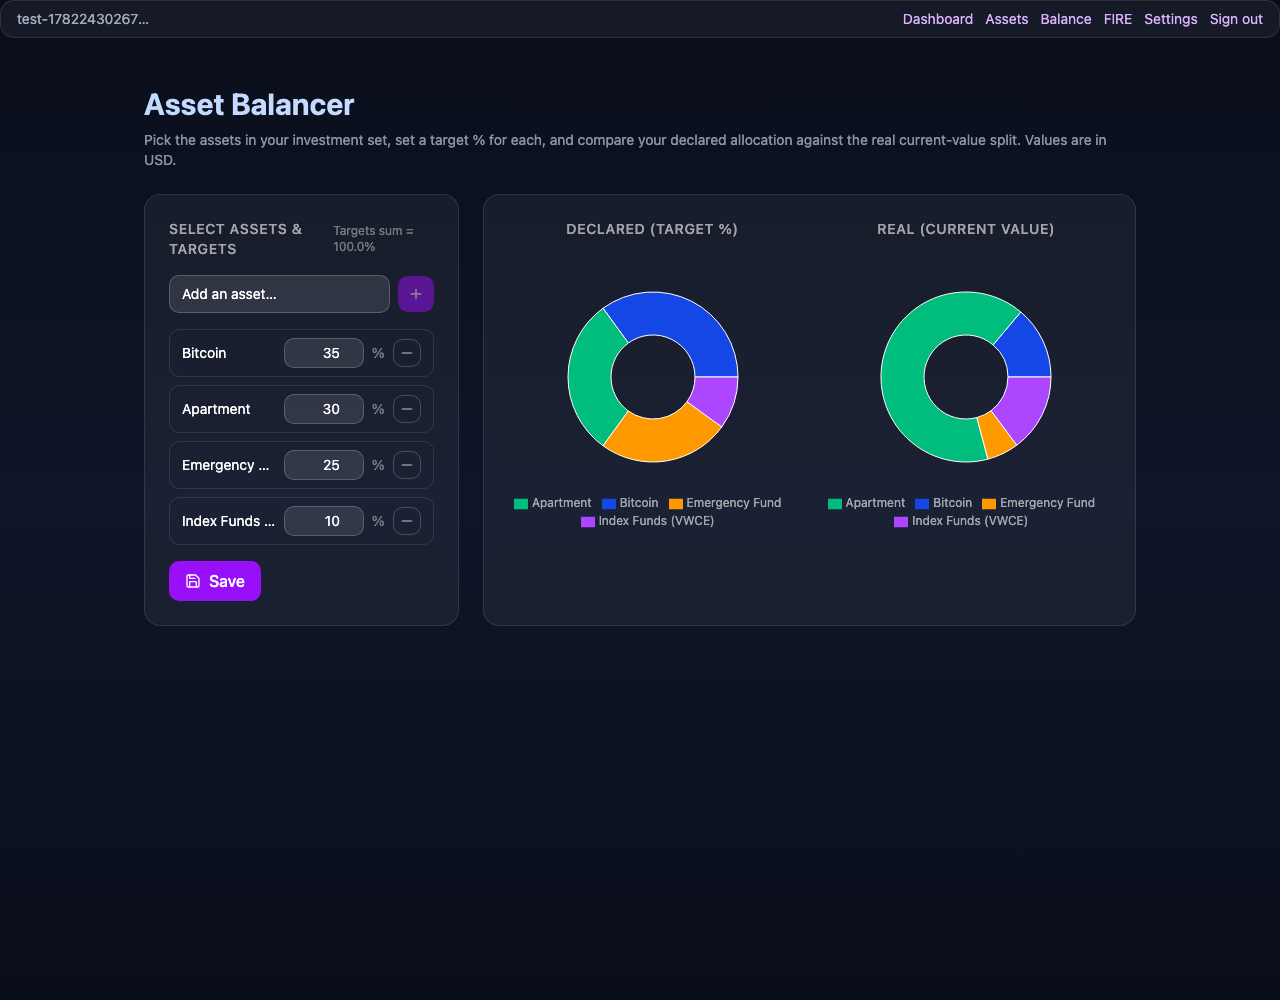
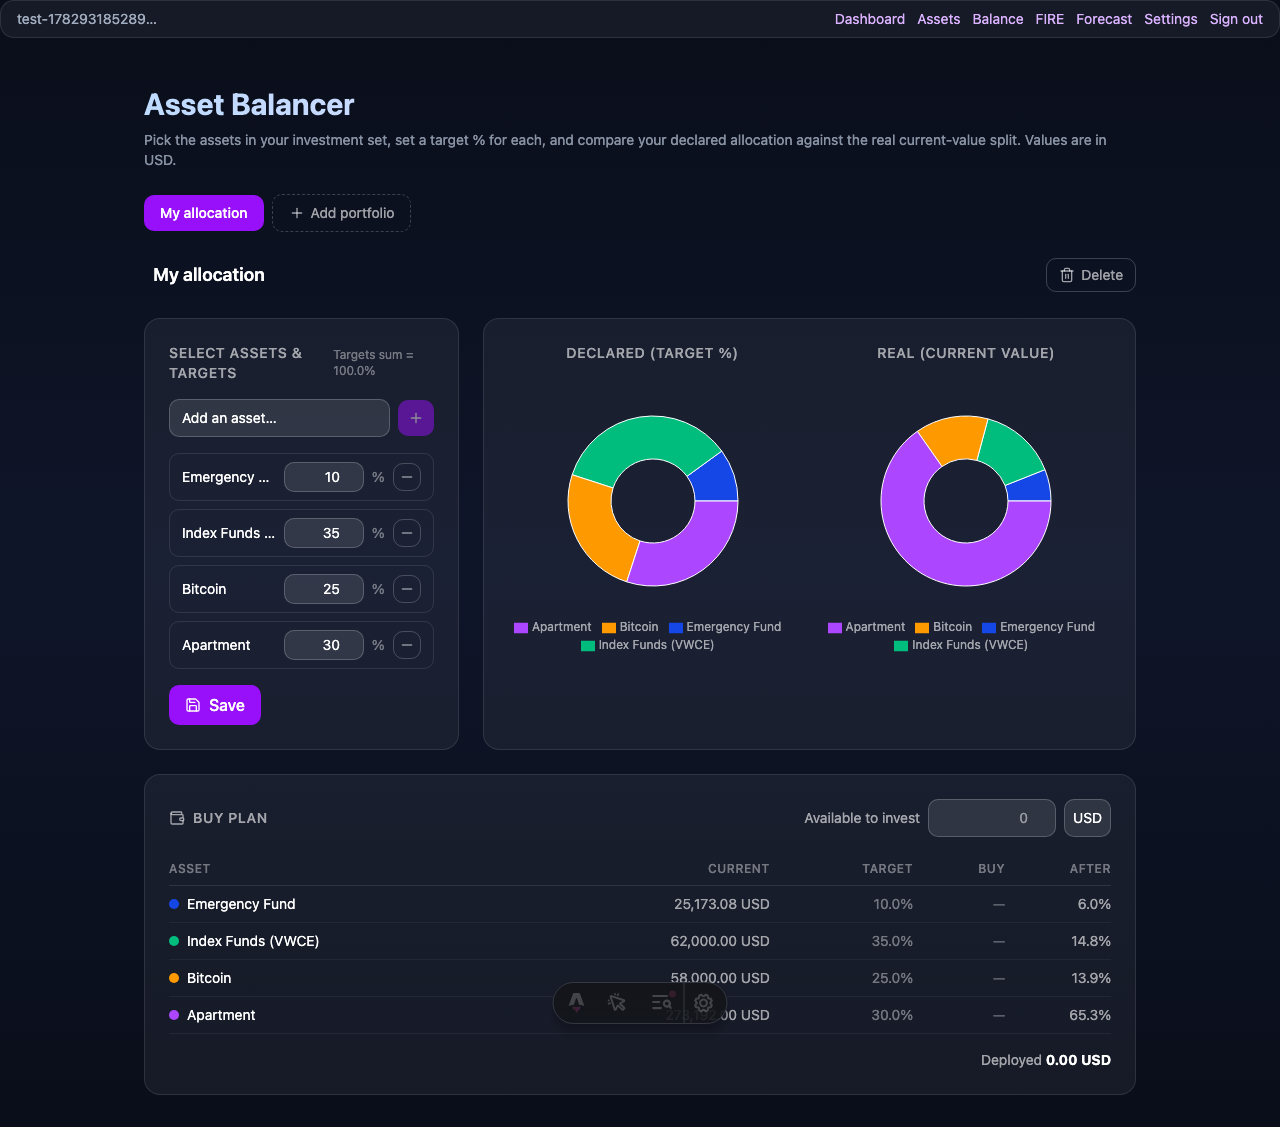
docs(readme): refresh screenshots + document multi-card balancer & buy plan
Regenerate all doc screenshots and add the buy-plan card image to the README.
Update the Asset Balancer feature blurb to cover multiple portfolio cards and
the cash-budget buy plan.

Fix the two capture specs' seed helpers for the multi-card allocation API:
create an allocation card, then PUT targets as { card_id, targets } instead of
the old bare array (a fresh test user has no card).

diff --git a/e2e/capture-screenshots.spec.ts b/e2e/capture-screenshots.spec.ts
@@ -244,15 +244,24 @@ async function seedAllocationTargets(
   if (error) throw new Error(`Read assets for allocation targets failed: ${error.message}`);
 
   const idByName = new Map(rows.map((r) => [r.name, r.id]));
-  const payload = ALLOCATION_TARGETS.map((t) => {
+  const targets = ALLOCATION_TARGETS.map((t) => {
     const asset_id = idByName.get(t.name);
     if (!asset_id) throw new Error(`Allocation target asset not found by name: ${t.name}`);
     return { asset_id, target_pct: t.target_pct };
   });
 
+  // Multi-card portfolios (S-16): targets belong to a card. A fresh user has
+  // none, so create one and PUT the targets under its id.
+  const cardRes = await request.post("/api/allocation-cards", {
+    headers: { "Content-Type": "application/json" },
+    data: JSON.stringify({ name: "My allocation" }),
+  });
+  if (!cardRes.ok()) throw new Error(`Create allocation card failed: ${cardRes.status()} ${await cardRes.text()}`);
+  const { data: card } = await cardRes.json();
+
   const res = await request.put("/api/allocation-targets", {
     headers: { "Content-Type": "application/json" },
-    data: JSON.stringify(payload),
+    data: JSON.stringify({ card_id: card.id, targets }),
   });
   if (!res.ok()) throw new Error(`Seed allocation targets failed: ${res.status()} ${await res.text()}`);
 }

diff --git a/e2e/buy-plan-shot.spec.ts b/e2e/buy-plan-shot.spec.ts
@@ -59,10 +59,20 @@ test("capture buy plan card", async ({ page, browser }) => {
     .overrideTypes<{ id: string; name: string }[], { merge: false }>();
   if (error) throw new Error(`Read assets failed: ${error.message}`);
   const idByName = new Map(rows.map((r) => [r.name, r.id]));
-  const payload = TARGETS.map((t) => ({ asset_id: idByName.get(t.name), target_pct: t.target_pct }));
+  const targets = TARGETS.map((t) => ({ asset_id: idByName.get(t.name), target_pct: t.target_pct }));
+
+  // Multi-card portfolios (S-16): targets belong to a card. A fresh user has
+  // none, so create one and PUT the targets under its id.
+  const cardRes = await page.request.post("/api/allocation-cards", {
+    headers: { "Content-Type": "application/json" },
+    data: JSON.stringify({ name: "My allocation" }),
+  });
+  if (!cardRes.ok()) throw new Error(`Create card failed: ${cardRes.status()} ${await cardRes.text()}`);
+  const { data: newCard } = await cardRes.json();
+
   const putRes = await page.request.put("/api/allocation-targets", {
     headers: { "Content-Type": "application/json" },
-    data: JSON.stringify(payload),
+    data: JSON.stringify({ card_id: newCard.id, targets }),
   });
   if (!putRes.ok()) throw new Error(`Seed targets failed: ${putRes.status()} ${await putRes.text()}`);
 

diff --git a/README.md b/README.md
@@ -41,7 +41,7 @@ Tracking net worth in a spreadsheet works until it doesn't: formulas drift, curr
 - **Live crypto prices** — adding or editing a crypto holding fetches the current market price from CoinGecko (cached, with manual-entry fallback). Top coins are mapped out of the box (BTC, ETH, SOL, and more).
 - **FIRE calculator** — enter your income, expenses, return, inflation, and safe withdrawal rate to compute your FIRE number, years to FI, estimated retirement age, plus Coast and Barista FIRE — with a year-by-year projection chart in today's money.
 - **FIRE progress card** — a settings-gated card on the dashboard (on by default) that turns your saved FIRE inputs into an at-a-glance view: a progress bar for percent of your FIRE number reached, months of runway at zero income, years to FI, and the FIRE number — all in your display currency. Before you've entered any FIRE data it shows a placeholder linking to the calculator.
-- **Asset balancer** — a dedicated **Balance** page where you pick an investment set from your assets (via a single-choice dropdown with add/remove controls), assign a target % to each, and compare your **declared** allocation against the **real** current-value split as two side-by-side donut charts that share one color per asset. A live "targets sum" indicator warns when your declared percentages don't add up to 100% — without blocking save (the declared pie shows your raw percentages; the real pie is normalized by construction). Each assets-list row also gains a muted **"% of all assets"** share label.
+- **Asset balancer** — a dedicated **Balance** page where you pick an investment set from your assets (via a single-choice dropdown with add/remove controls), assign a target % to each, and compare your **declared** allocation against the **real** current-value split as two side-by-side donut charts that share one color per asset. A live "targets sum" indicator warns when your declared percentages don't add up to 100% — without blocking save (the declared pie shows your raw percentages; the real pie is normalized by construction). You can keep **multiple portfolio cards** side by side, each with its own target set. Enter a cash budget and the **buy plan** computes a buy-only, water-filling deployment across your under-target assets — in your chosen currency. Each assets-list row also gains a muted **"% of all assets"** share label.
 - **Settings** — choose your display currency (PLN/USD/EUR), theme (light/dark/system), and whether the FIRE progress card appears on your dashboard; everything is persisted per user.
 - **Auth** — email/password authentication via Supabase SSR, with protected dashboard routes.
 
@@ -52,6 +52,8 @@ Tracking net worth in a spreadsheet works until it doesn't: formulas drift, curr
 ![Asset Trends — per-asset trend lines over snapshot history, indexed mode](docs/screenshots/asset-trends.png)
 
 ![Asset Balancer — declared vs real allocation as side-by-side donut charts, with a dropdown + add/remove asset picker and a live targets-sum indicator](docs/screenshots/balancer.png)
+
+![Buy plan — enter a cash budget and get a buy-only, water-filling deployment across under-target assets, in your chosen currency](docs/screenshots/buy-plan/buy-plan-card-dark.png)
 
 ![Settings — display currency, theme, FIRE progress card toggle, and backup/restore](docs/screenshots/settings.png)
 
